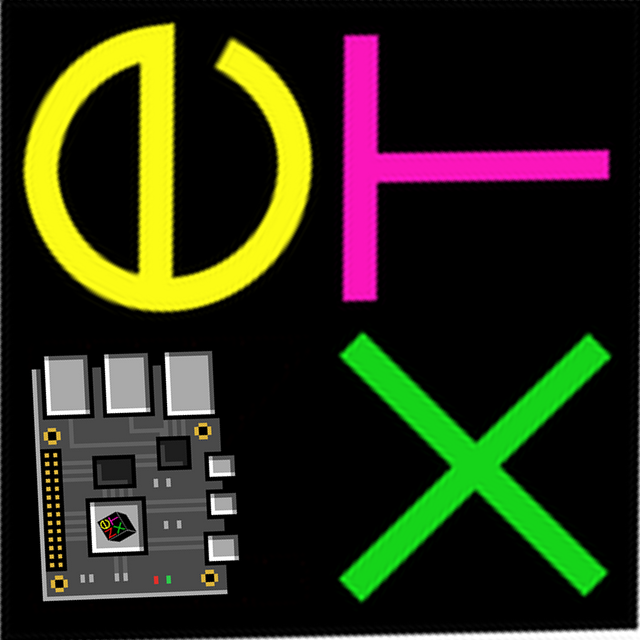
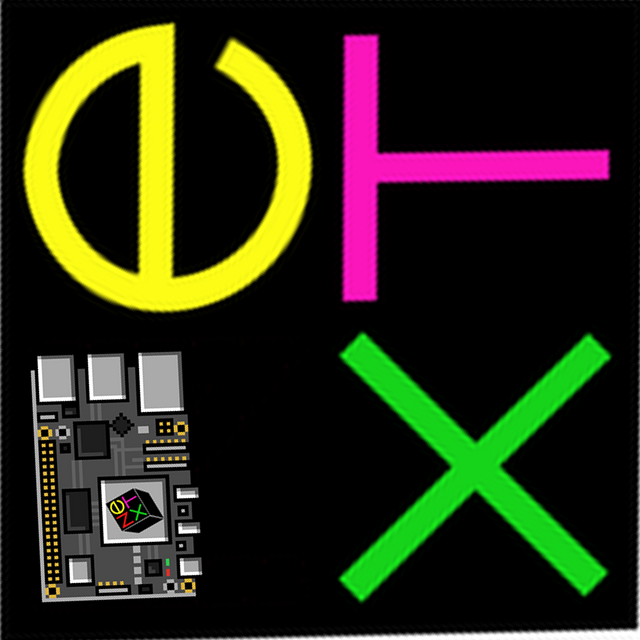
Feat: The film shows the Raspberry Pi 5 in its new drawing (#35)
- promo/parts.py drew the board and its smear again from board-pi5.svg, and laid the mark's top face flat again from the new mark
- The board on the cube's face is placed by its new size of 720 by 480, and the cube's pose and the NeXT letters are unchanged
- HyperFrames moves from 0.8.149 to 0.8.150, and the check passes for the film and the television

Closes #33

Changed region(s): [[0.0312, 0.5312, 0.375, 0.9375]]

diff --git a/promo/assets/parts.js b/promo/assets/parts.js
@@ -1,2 +1,2 @@
 // Written by promo/parts.py. Change that and run it again.
-window.PARTS = {"pi": {"width": 600, "height": 480}, "cube": {"width": 480, "height": 480}, "streak": {"reach": 1.0, "opacity": 0.85}, "mark": {"width": 836, "height": 1024}, "markPose": {"rotationZ": 13.446, "rotationX": -61.942, "rotationY": -48.431, "halfEdge": 290.474, "distance": 19.409, "center": [406.43, 530.11]}};
+window.PARTS = {"pi": {"width": 720, "height": 480}, "cube": {"width": 480, "height": 480}, "streak": {"reach": 1.0, "opacity": 0.85}, "mark": {"width": 836, "height": 1024}, "markPose": {"rotationZ": 13.446, "rotationX": -61.942, "rotationY": -48.431, "halfEdge": 290.474, "distance": 19.409, "center": [406.43, 530.11]}};
